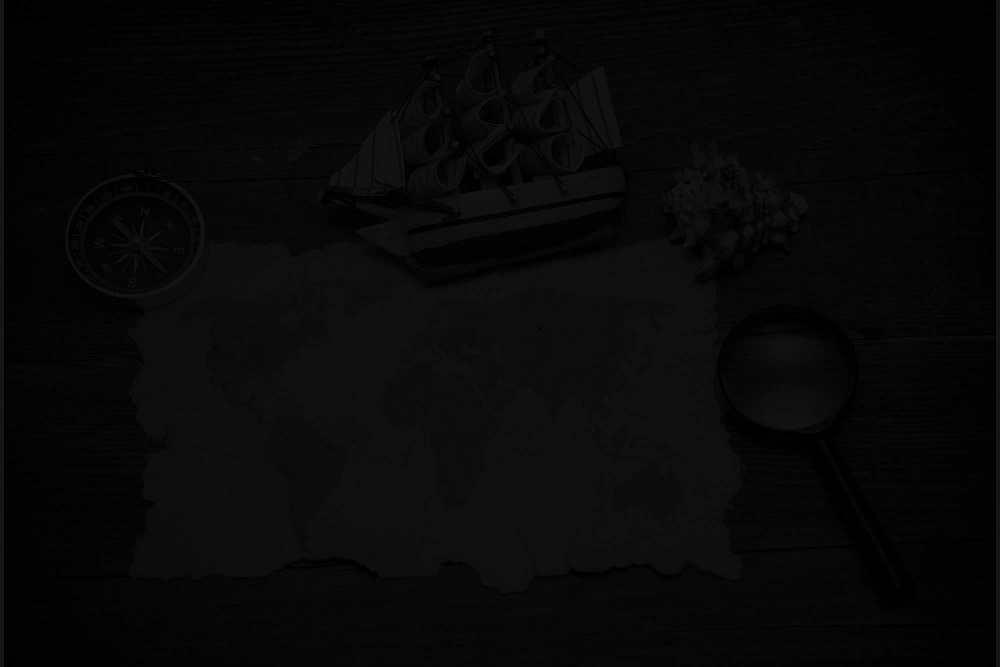
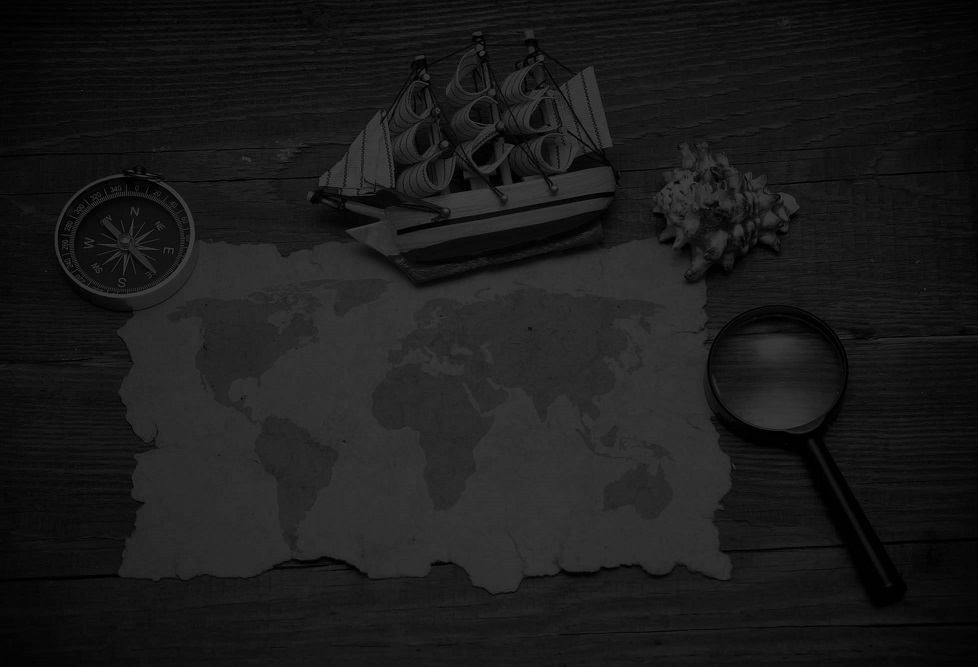
fix color too dark
and add phone support

diff --git a/index.html b/index.html
@@ -37,7 +37,6 @@
             display: block;
             float:left;
             width:100%;
-            height:40px;
             font-family: "Microsoft JhengHei";
             font-size:25px;
             color:wheat;
@@ -241,6 +240,17 @@
             .spike1{
                 margin-right:5px;
             }
+            .kcontent4{
+                border:1px solid #fcffc8;
+                opacity: 1;
+            }
+            .kcontent1{
+                opacity:1;
+            }
+            .spike1{
+                opacity: 1;
+            }
+
         }
 
 
